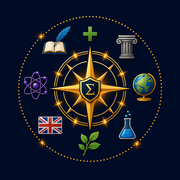
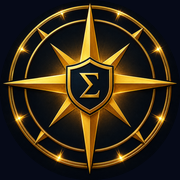
Audit DA #25 : icones simplifiees (medaillon boussole seul, sans la couronne d'icones)

diff --git a/index.html b/index.html
@@ -11,11 +11,11 @@
 <meta name="apple-mobile-web-app-status-bar-style" content="black-translucent">
 <meta name="apple-mobile-web-app-title" content="Odyssée">
 <title>L'Odyssée du Savoir</title>
-<link rel="manifest" href="manifest.webmanifest?v=1057">
-<link rel="icon" type="image/png" sizes="32x32" href="assets/favicon-32.png?v=1057">
-<link rel="icon" type="image/png" sizes="192x192" href="assets/icon-192.png?v=1057">
-<link rel="icon" type="image/png" sizes="512x512" href="assets/icon-512.png?v=1057">
-<link rel="apple-touch-icon" href="assets/apple-touch-icon.png?v=1057">
+<link rel="manifest" href="manifest.webmanifest?v=1058">
+<link rel="icon" type="image/png" sizes="32x32" href="assets/favicon-32.png?v=1058">
+<link rel="icon" type="image/png" sizes="192x192" href="assets/icon-192.png?v=1058">
+<link rel="icon" type="image/png" sizes="512x512" href="assets/icon-512.png?v=1058">
+<link rel="apple-touch-icon" href="assets/apple-touch-icon.png?v=1058">
 <link rel="stylesheet" href="assets/fonts/google-fonts.css">
 <link rel="stylesheet" href="css/styles.css?v=1057">
 </head>

diff --git a/sw.js b/sw.js
@@ -9,7 +9,7 @@
  */
 'use strict';
 
-const CACHE_VERSION = 'v11.7.32';
+const CACHE_VERSION = 'v11.7.33';
 const CACHE_NAME = `odyssee-${CACHE_VERSION}`;
 
 // Ressources critiques précachées au premier chargement.
